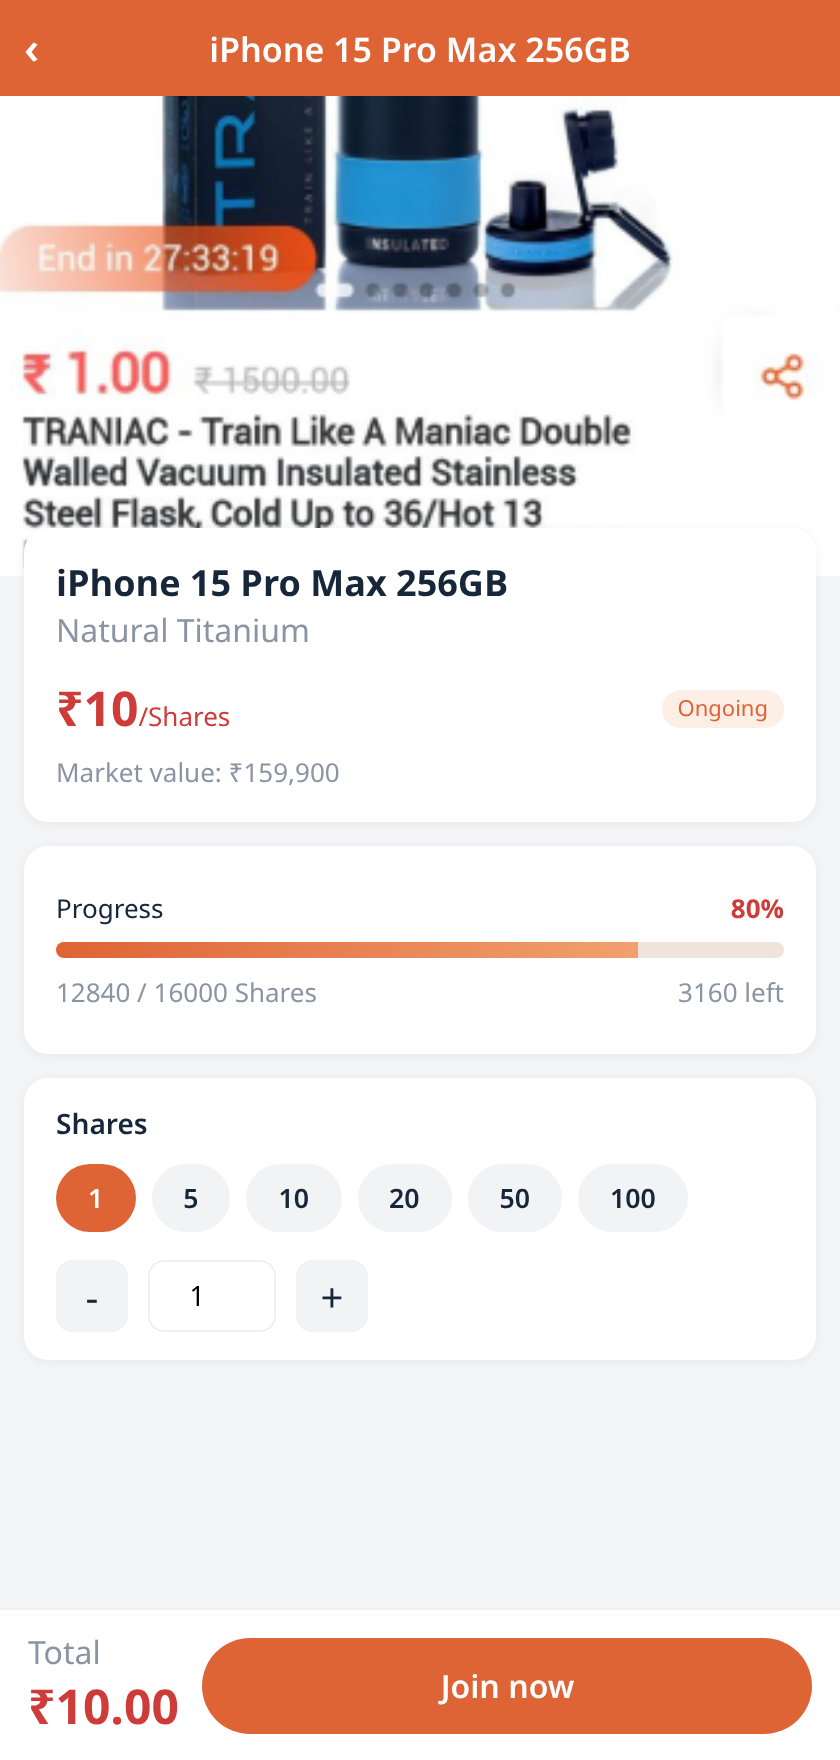
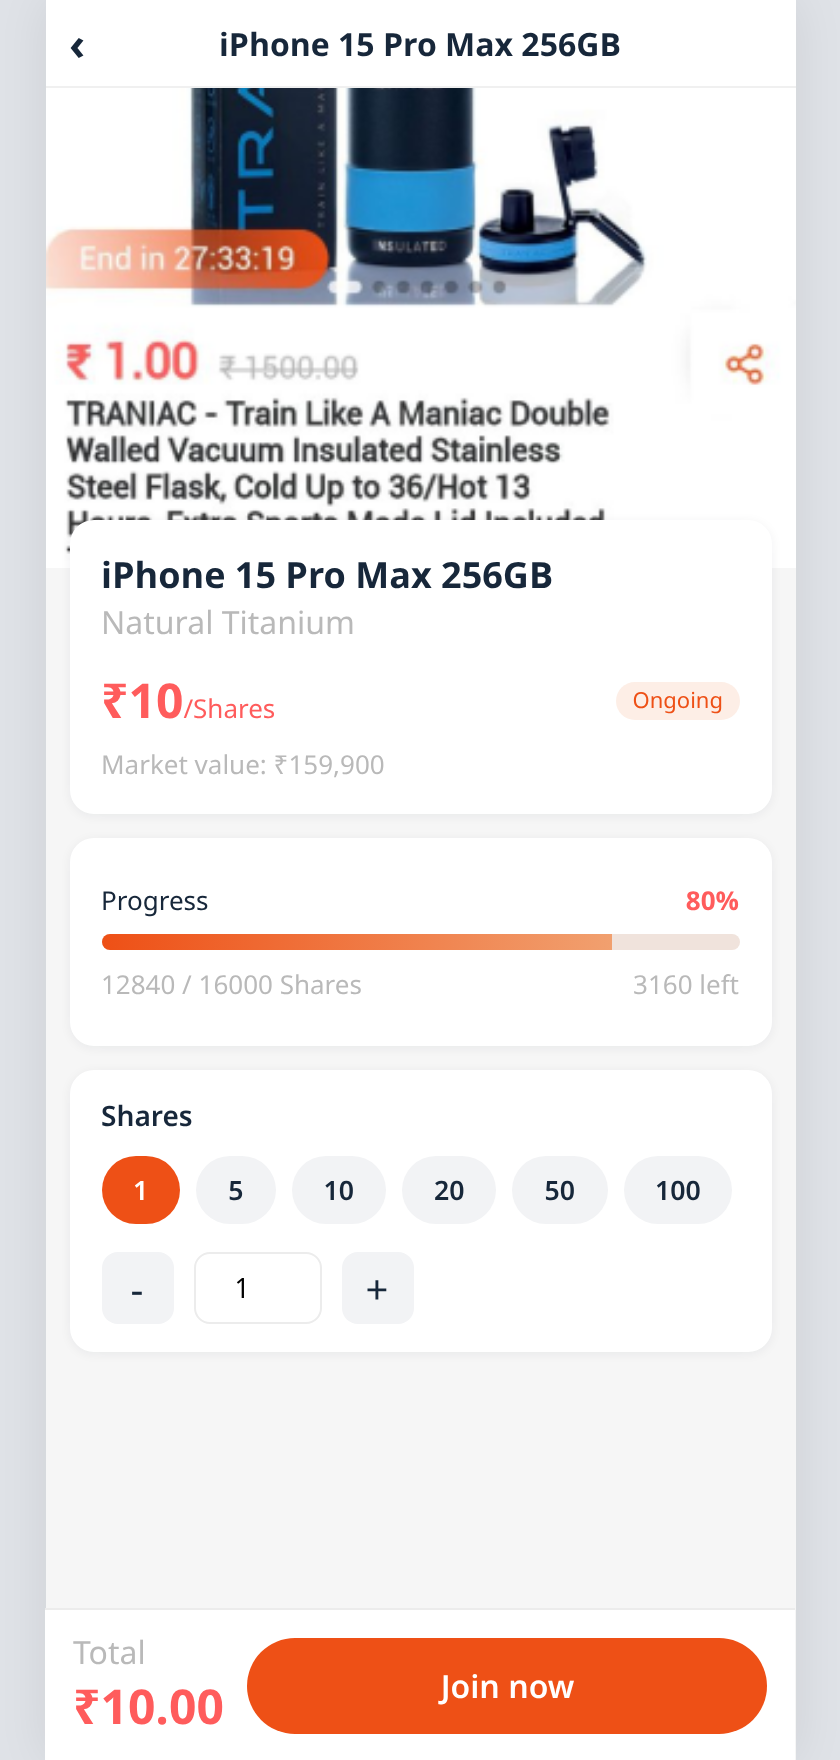
Match UI to the real ORich 2.1.4 app
Extracted the app's own compiled scoped CSS (view-layer) from the XAPK, mapped
each page to its data-v scopeId, and converted rpx→px (750rpx=375px).

- Real design tokens app-wide: accent #ee5016, ink #17273a, grey #b9b9b9,
  bg #f6f6f6, Roboto/PingFang fonts, white 44px nav bar.
- Login: faithful rebuild with the real .login/.inputview/.send/.nextbtn classes,
  real scoped CSS and the app's own login background.
- Winner: faithful real .winner/.main card layout (avatar+name+time, congrats,
  lucky code, goods card).
- Regenerated screenshots at the real 375px frame.

diff --git a/app/src/views/Login.vue b/app/src/views/Login.vue
@@ -14,7 +14,6 @@ const { toast } = useToast();
 
 const phone = ref('');
 const code = ref('');
-const invite = ref('');
 const countdown = ref(0);
 const busy = ref(false);
 
@@ -24,7 +23,6 @@ async function sendCode() {
     const data = await api.sendVerify(phone.value);
     countdown.value = 60;
     const timer = setInterval(() => { if (--countdown.value <= 0) clearInterval(timer); }, 1000);
-    // Demo backend returns the code so testers can proceed without SMS.
     if (data.demoCode) { code.value = data.demoCode; toast('Demo code: ' + data.demoCode); }
   } catch (e) { toast(e.message); }
 }
@@ -33,53 +31,67 @@ async function submit() {
   if (!phone.value || !code.value) return toast(t('login.code'));
   busy.value = true;
   try {
-    await auth.signIn(phone.value, code.value, invite.value);
-    toast(t('login.title') + ' ✓');
+    await auth.signIn(phone.value, code.value);
     router.replace(route.query.redirect || '/account');
   } catch (e) { toast(e.message); }
   finally { busy.value = false; }
 }
 </script>
 
+<!-- Faithful rebuild of the real ORich 2.1.4 pages/login/login (real classes + scoped CSS). -->
 <template>
   <div class="login">
-    <div class="top">
-      <div class="logo">O</div>
-      <h1>{{ t('app.name') }}</h1>
-      <p>{{ t('login.title') }}</p>
+    <div class="backicon" @click="router.back()">
+      <span class="back-arrow">‹</span>
     </div>
 
-    <div class="form card">
-      <label>{{ t('login.phone') }}</label>
-      <input class="field" v-model="phone" type="tel" inputmode="numeric" placeholder="98765 43210" />
+    <div class="title">{{ t('login.title') }}</div>
+    <div class="tips">{{ t('login.tips') }}</div>
 
-      <label>{{ t('login.code') }}</label>
-      <div class="code-row">
-        <input class="field" v-model="code" inputmode="numeric" placeholder="----" />
-        <button class="send" :disabled="countdown > 0" @click="sendCode">
-          {{ countdown > 0 ? countdown + 's' : t('login.send') }}
-        </button>
+    <div class="input-title">{{ t('login.phone') }}</div>
+    <div class="inputview">
+      <span class="inputview-num">+91</span>
+      <span class="inputview-op"></span>
+      <input class="inputview-input" v-model="phone" type="tel" inputmode="numeric" :placeholder="t('login.phonePh')" />
+    </div>
+
+    <div class="input-title">{{ t('login.code') }}</div>
+    <div class="send">
+      <input class="send-input" v-model="code" inputmode="numeric" :placeholder="t('login.codePh')" />
+      <div class="wrap" @click="countdown === 0 && sendCode()">
+        {{ countdown > 0 ? countdown + 's' : t('login.send') }}
       </div>
+    </div>
 
-      <label>{{ t('login.invite') }}</label>
-      <input class="field" v-model="invite" placeholder="ORICH1234" />
+    <button class="nextbtn" :disabled="busy" @click="submit">{{ t('login.action') }}</button>
 
-      <button class="btn" style="margin-top:18px" :disabled="busy" @click="submit">{{ t('login.action') }}</button>
-      <p class="terms muted">{{ t('login.terms') }}</p>
+    <div class="user-rule">
+      <span class="user-rule-item">{{ t('login.terms') }} </span>
+      <span class="user-rule-item link">{{ t('login.rules') }}</span>
     </div>
   </div>
 </template>
 
 <style scoped>
-.login { min-height: 100vh; background: linear-gradient(160deg, var(--brand), #b84a26); padding: 48px 20px 20px; }
-.top { text-align: center; color: #fff; margin-bottom: 24px; }
-.top .logo { width: 64px; height: 64px; border-radius: 16px; margin: 0 auto 10px; background: #fff; color: var(--brand); font-weight: 800; font-size: 40px; display: flex; align-items: center; justify-content: center; }
-.top h1 { margin: 0; font-size: 26px; letter-spacing: 1px; }
-.top p { margin: 4px 0 0; opacity: 0.85; }
-.form { padding: 18px; }
-.form label { display: block; font-size: 13px; color: var(--muted); margin: 12px 0 6px; }
-.code-row { display: flex; gap: 8px; }
-.send { white-space: nowrap; padding: 0 14px; border-radius: 10px; background: #fdeee6; color: var(--brand); font-weight: 600; }
-.send:disabled { opacity: 0.6; }
-.terms { font-size: 11px; text-align: center; margin-top: 14px; line-height: 1.5; }
+/* Verbatim from the app's compiled stylesheet (rpx→px at 0.5); uni-* tags mapped to html. */
+.login { width: 100%; min-height: 100vh; padding: 0 15px; background: url('/static/image/login/bg.png'); background-size: 100% auto; }
+.login .backicon { display: flex; align-items: center; width: 100%; height: 49px; margin: 0 -7px; }
+.login .backicon .back-arrow { font-size: 30px; color: #17273a; line-height: 1; }
+.login .title { margin-top: 60px; padding: 0 10px; font-size: 24px; font-family: Roboto, Roboto-Medium; font-weight: 700; text-align: left; color: #17273a; }
+.login .tips { padding: 0 10px; font-size: 18px; font-family: Roboto, Roboto-Regular; font-weight: 400; text-align: left; color: #b9b9b9; }
+.login .input-title { padding: 0 10px; margin-top: 52px; margin-bottom: 8px; font-size: 16px; font-family: Roboto, Roboto-Regular; font-weight: 400; text-align: left; color: #17273a; }
+.login .inputview { display: flex; flex-direction: row; align-items: center; justify-content: center; padding: 10px 0; margin: 0 10px; border-bottom: 1px solid #ececec; }
+.login .inputview .inputview-num { font-size: 16px; font-family: 'PingFang SC', 'PingFang SC-Medium'; text-align: left; color: #17273a; }
+.login .inputview .inputview-op { width: 1px; height: 13px; margin: 0 8px; background-color: #b9b9b9; }
+.login .inputview .inputview-input { flex: 1; padding-left: 2px; font-size: 16px; font-family: 'PingFang SC', 'PingFang SC-Regular'; font-weight: 400; text-align: left; color: #17273a; border: none; outline: none; background: transparent; }
+.login .inputview .inputview-input::placeholder { color: silver; }
+.login .send { display: flex; flex-direction: row; align-items: flex-start; justify-content: center; width: 100%; padding: 0 10px; }
+.login .send .send-input { flex: 1; padding: 5px 0 9px 0; font-size: 16px; border: none; border-bottom: 1px solid #ececec; font-family: 'PingFang SC', 'PingFang SC-Regular'; font-weight: 400; text-align: left; color: #17273a; outline: none; background: transparent; }
+.login .send .send-input::placeholder { color: silver; }
+.login .send .wrap { min-width: 70px; padding: 4px 0 10px 0; color: #ee5016; font-size: 18px; font-family: 'PingFang SC', 'PingFang SC-Bold'; font-weight: 700; text-align: right; }
+.login .nextbtn { width: 100%; height: 46px; margin-top: 67px; border-radius: 6px; background: #ee5016; color: #fff; font-size: 17px; font-weight: 700; }
+.login .nextbtn:disabled { opacity: 0.6; }
+.login .user-rule { font-size: 13px; margin-top: 130px; padding: 0 10px; }
+.login .user-rule .user-rule-item { font-family: Roboto, Roboto-Regular; font-weight: 400; color: #b9b9b9; }
+.login .user-rule .user-rule-item.link { color: #ee5016; }
 </style>

diff --git a/app/src/i18n/index.js b/app/src/i18n/index.js
@@ -7,10 +7,10 @@ const en = {
   common: { join: 'Join', recharge: 'Recharge', confirm: 'Confirm', cancel: 'Cancel', back: 'Back', all: 'All', loading: 'Loading…', empty: 'Nothing here yet', balance: 'Balance', submit: 'Submit' },
   home: { notice: 'Notice', hot: 'Hot Picks', groupBuy: '1₹ Group Buy', latestWinners: 'Latest Winners', viewAll: 'View all', joined: 'joined', remaining: 'left' },
   product: { marketValue: 'Market value', perShare: 'Per share', progress: 'Progress', shares: 'Shares', total: 'Total', joinNow: 'Join now', ongoing: 'Ongoing', drawing: 'Drawing', done: 'Completed' },
-  login: { title: 'Sign in', phone: 'Phone number', code: 'Verification code', send: 'Send code', invite: 'Invite code (optional)', action: 'Sign in / Register', terms: 'By continuing you agree to the Terms & Privacy Policy' },
+  login: { title: 'Login', tips: 'Sign in or create your account', phone: 'Phone Number', phonePh: 'Enter phone number', code: 'Verification Code', codePh: 'Enter code', send: 'Send OTP', invite: 'Invite code (optional)', action: 'Login', terms: 'By continuing you agree to the', rules: 'Terms & Privacy Policy' },
   account: { wallet: 'Wallet', withdraw: 'Withdraw', team: 'My Team', funding: 'Fund Records', finance: 'Finance', orders: 'My Orders', help: 'Help & FAQ', settings: 'Settings', about: 'About Us', service: 'Customer Service', invite: 'Invite Friends', signOut: 'Sign out', frozen: 'Frozen' },
   recharge: { title: 'Recharge', choose: 'Choose amount', custom: 'Custom amount', pay: 'Pay now', success: 'Recharge successful' },
-  winner: { title: 'Winners', mine: 'My Wins', code: 'Lucky code', shares: 'shares' },
+  winner: { title: 'Winners', mine: 'My Wins', code: 'Lucky code', shares: 'shares', congrats: 'Congratulations on winning!', signinMine: 'Please sign in to see your wins' },
   finance: { title: 'Finance', rate: 'Daily rate', days: 'Term', min: 'Min', invest: 'Invest', amount: 'Amount', confirm: 'Confirm investment' },
   invite: { title: 'Invite Friends', yourCode: 'Your invite code', copy: 'Copy', share: 'Share', tip: 'Invite friends and earn commission when they join.' },
   order: { title: 'My Orders', amount: 'Amount', status: 'Status', date: 'Date' },
@@ -24,10 +24,10 @@ const hi = {
   common: { join: 'शामिल हों', recharge: 'रिचार्ज', confirm: 'पुष्टि करें', cancel: 'रद्द करें', back: 'वापस', all: 'सभी', loading: 'लोड हो रहा है…', empty: 'अभी यहाँ कुछ नहीं है', balance: 'बैलेंस', submit: 'सबमिट' },
   home: { notice: 'सूचना', hot: 'हॉट पिक्स', groupBuy: '₹1 ग्रुप बाय', latestWinners: 'नए विजेता', viewAll: 'सभी देखें', joined: 'शामिल', remaining: 'बाकी' },
   product: { marketValue: 'बाज़ार मूल्य', perShare: 'प्रति शेयर', progress: 'प्रगति', shares: 'शेयर', total: 'कुल', joinNow: 'अभी शामिल हों', ongoing: 'जारी', drawing: 'ड्रॉ', done: 'पूर्ण' },
-  login: { title: 'साइन इन', phone: 'फ़ोन नंबर', code: 'सत्यापन कोड', send: 'कोड भेजें', invite: 'इनवाइट कोड (वैकल्पिक)', action: 'साइन इन / रजिस्टर', terms: 'जारी रखने पर आप नियम व गोपनीयता नीति से सहमत हैं' },
+  login: { title: 'लॉगिन', tips: 'साइन इन करें या खाता बनाएँ', phone: 'फ़ोन नंबर', phonePh: 'फ़ोन नंबर डालें', code: 'सत्यापन कोड', codePh: 'कोड डालें', send: 'OTP भेजें', invite: 'इनवाइट कोड (वैकल्पिक)', action: 'लॉगिन', terms: 'जारी रखने पर आप सहमत हैं', rules: 'नियम व गोपनीयता नीति' },
   account: { wallet: 'वॉलेट', withdraw: 'निकासी', team: 'मेरी टीम', funding: 'फंड रिकॉर्ड', finance: 'फाइनेंस', orders: 'मेरे ऑर्डर', help: 'मदद व सवाल', settings: 'सेटिंग्स', about: 'हमारे बारे में', service: 'कस्टमर सेवा', invite: 'दोस्तों को बुलाएँ', signOut: 'साइन आउट', frozen: 'फ्रोज़न' },
   recharge: { title: 'रिचार्ज', choose: 'राशि चुनें', custom: 'कस्टम राशि', pay: 'अभी भुगतान करें', success: 'रिचार्ज सफल' },
-  winner: { title: 'विजेता', mine: 'मेरी जीत', code: 'लकी कोड', shares: 'शेयर' },
+  winner: { title: 'विजेता', mine: 'मेरी जीत', code: 'लकी कोड', shares: 'शेयर', congrats: 'जीतने की बधाई!', signinMine: 'अपनी जीत देखने के लिए साइन इन करें' },
   finance: { title: 'फाइनेंस', rate: 'दैनिक दर', days: 'अवधि', min: 'न्यूनतम', invest: 'निवेश', amount: 'राशि', confirm: 'निवेश की पुष्टि करें' },
   invite: { title: 'दोस्तों को बुलाएँ', yourCode: 'आपका इनवाइट कोड', copy: 'कॉपी', share: 'शेयर', tip: 'दोस्तों को बुलाएँ और उनके शामिल होने पर कमीशन कमाएँ।' },
   order: { title: 'मेरे ऑर्डर', amount: 'राशि', status: 'स्थिति', date: 'तारीख' },

diff --git a/app/src/views/Winner.vue b/app/src/views/Winner.vue
@@ -12,57 +12,62 @@ const mine = ref([]);
 
 onMounted(async () => {
   all.value = (await api.winners()).list;
-  if (auth.isLoggedIn) {
-    try { mine.value = (await api.myWinners()).list; } catch { /* ignore */ }
-  }
+  if (auth.isLoggedIn) { try { mine.value = (await api.myWinners()).list; } catch { /* ignore */ } }
 });
 </script>
 
+<!-- Faithful rebuild of the real pages/winner/winner (real .winner/.main classes + scoped CSS). -->
 <template>
-  <div class="page">
+  <div class="winner">
     <header class="navbar">{{ t('winner.title') }}</header>
     <div class="tabs">
       <button :class="{ on: tab === 'all' }" @click="tab = 'all'">{{ t('common.all') }}</button>
       <button :class="{ on: tab === 'mine' }" @click="tab = 'mine'">{{ t('winner.mine') }}</button>
     </div>
 
-    <div class="list">
-      <template v-if="tab === 'all'">
-        <div v-for="w in all" :key="w.id" class="wcard card">
+    <template v-if="(tab === 'all' ? all : mine).length">
+      <div v-for="w in (tab === 'all' ? all : mine)" :key="w.id" class="main">
+        <div class="header">
           <img :src="w.avatar" alt="" />
-          <div class="wbody">
-            <div class="wtop"><b>{{ w.name }}</b><span class="muted">{{ w.date }}</span></div>
-            <div>{{ w.product }}</div>
-            <div class="muted small">{{ t('winner.code') }}: {{ w.code }} · {{ w.shares }} {{ t('winner.shares') }}</div>
+          <span class="header-name">{{ w.name }}</span>
+          <span class="header-time">{{ w.date }}</span>
+        </div>
+        <div class="title">🎉 {{ t('winner.congrats') }}</div>
+        <div class="content">{{ t('winner.code') }}: {{ w.code }} · {{ w.shares }} {{ t('winner.shares') }}</div>
+        <div class="goods">
+          <img :src="w.avatar" alt="" />
+          <div class="goods-desc">
+            <div class="goods-name">{{ w.product }}</div>
+            <div class="goods-issue">#{{ w.code }}</div>
           </div>
         </div>
-      </template>
-      <template v-else>
-        <div v-if="!auth.isLoggedIn" class="empty">Please sign in to see your wins.</div>
-        <div v-else-if="!mine.length" class="empty">
-          <img src="/static/image/nodata.png" alt="" />
-          <div>{{ t('common.empty') }}</div>
-        </div>
-        <div v-for="w in mine" :key="w.id" class="wcard card">
-          <img :src="w.avatar" alt="" />
-          <div class="wbody">
-            <div class="wtop"><b>{{ w.name }}</b><span class="muted">{{ w.date }}</span></div>
-            <div>{{ w.product }}</div>
-          </div>
-        </div>
-      </template>
+      </div>
+    </template>
+    <div v-else class="empty">
+      <img src="/static/image/nodata.png" alt="" />
+      <div>{{ tab === 'mine' && !auth.isLoggedIn ? t('winner.signinMine') : t('common.empty') }}</div>
     </div>
   </div>
 </template>
 
 <style scoped>
-.tabs { display: flex; background: #fff; border-bottom: 1px solid var(--line); position: sticky; top: 48px; z-index: 10; }
-.tabs button { flex: 1; padding: 12px; background: none; font-size: 15px; color: var(--muted); font-weight: 600; border-bottom: 2px solid transparent; }
-.tabs button.on { color: var(--brand); border-bottom-color: var(--brand); }
-.list { padding: 12px; display: flex; flex-direction: column; gap: 10px; }
-.wcard { display: flex; gap: 12px; padding: 12px; align-items: center; }
-.wcard img { width: 44px; height: 44px; border-radius: 50%; object-fit: cover; }
-.wbody { flex: 1; display: flex; flex-direction: column; gap: 3px; font-size: 14px; }
-.wtop { display: flex; justify-content: space-between; font-size: 13px; }
-.small { font-size: 12px; }
+.winner { background: #f9f9f9; min-height: 100vh; padding-bottom: 49px; }
+.tabs { display: flex; background: #fff; border-bottom: 1px solid #f0f0f0; position: sticky; top: 44px; z-index: 10; }
+.tabs button { flex: 1; padding: 11px; background: none; font-size: 14px; color: #b9b9b9; font-weight: 600; border-bottom: 2px solid transparent; }
+.tabs button.on { color: #ee5016; border-bottom-color: #ee5016; }
+
+.main { position: relative; width: 100%; margin-top: 8px; padding: 15px 13px; background: #fff; }
+.main .header { display: flex; flex-direction: row; align-items: center; justify-content: center; }
+.main .header img { width: 28px; height: 28px; margin-right: 9px; border-radius: 50%; border: 1px solid #fff; object-fit: cover; }
+.main .header .header-name { flex: 1; margin-right: 9px; font-size: 13px; font-family: Roboto, Roboto-Regular; font-weight: 600; color: #17273a; }
+.main .header .header-time { font-size: 13px; font-family: Roboto, Roboto-Regular; color: #b9b9b9; }
+.main .title { margin-top: 15px; font-size: 16px; font-family: Roboto, Roboto-Medium; font-weight: 700; color: #17273a; }
+.main .content { margin-top: 10px; margin-bottom: 10px; font-size: 14px; font-family: Roboto, Roboto-Regular; color: #686868; }
+.main .goods { display: flex; flex-direction: row; align-items: center; justify-content: center; }
+.main .goods img { width: 58px; height: 58px; margin-right: 7px; border-radius: 8px; object-fit: cover; }
+.main .goods .goods-desc { display: flex; flex-direction: column; align-items: flex-start; justify-content: space-between; flex: 1; height: 67px; padding: 12px 16px 13px 16px; background: #f7f8f9; border-radius: 12px; }
+.main .goods .goods-desc .goods-name { font-size: 14px; font-family: Roboto, Roboto-Medium; font-weight: 700; color: #17273a; }
+.main .goods .goods-desc .goods-issue { font-size: 13px; font-family: Roboto, Roboto-Regular; color: #b9b9b9; }
+.empty { text-align: center; color: #b9b9b9; padding: 60px 0; }
+.empty img { width: 90px; margin: 0 auto 10px; opacity: 0.8; }
 </style>

diff --git a/app/src/styles/global.css b/app/src/styles/global.css
@@ -1,19 +1,20 @@
 :root {
-  --brand: #de6436;        /* ORich accent (tab selected) */
-  --brand-dark: #ce3c39;
-  --ink: #17273a;          /* tab / primary text */
-  --muted: #8a94a2;
-  --line: #eef0f3;
-  --bg: #f4f5f7;
+  /* Real ORich 2.1.4 tokens, extracted from the app's compiled view.css. */
+  --brand: #ee5016;        /* real action orange */
+  --brand-dark: #ff5c5c;   /* real price red */
+  --ink: #17273a;          /* primary text */
+  --muted: #b9b9b9;        /* real grey */
+  --line: #ececec;
+  --bg: #f6f6f6;           /* real page background */
   --card: #ffffff;
   --radius: 12px;
-  --maxw: 480px;
+  --maxw: 375px;           /* 750rpx design width → 1rpx = 0.5px */
 }
 
 * { box-sizing: border-box; -webkit-tap-highlight-color: transparent; }
 html, body { margin: 0; padding: 0; background: #dfe2e7; }
 body {
-  font-family: 'Roboto', -apple-system, 'Segoe UI', 'Noto Sans', 'Noto Sans Devanagari', sans-serif;
+  font-family: 'Roboto', 'PingFang SC', -apple-system, 'Segoe UI', 'Noto Sans', 'Noto Sans Devanagari', sans-serif;
   color: var(--ink);
 }
 a { color: inherit; text-decoration: none; }
@@ -34,8 +35,9 @@ button { font-family: inherit; cursor: pointer; border: none; }
 
 .navbar {
   position: sticky; top: 0; z-index: 20;
-  height: 48px; display: flex; align-items: center; justify-content: center;
-  background: var(--brand); color: #fff; font-size: 17px; font-weight: 600;
+  height: 44px; display: flex; align-items: center; justify-content: center;
+  background: #fff; color: var(--ink); font-size: 16px; font-weight: 700;
+  border-bottom: 1px solid #f0f0f0;
 }
 .navbar .back { position: absolute; left: 12px; font-size: 22px; line-height: 1; }
 .navbar .right { position: absolute; right: 12px; font-size: 14px; font-weight: 500; }
